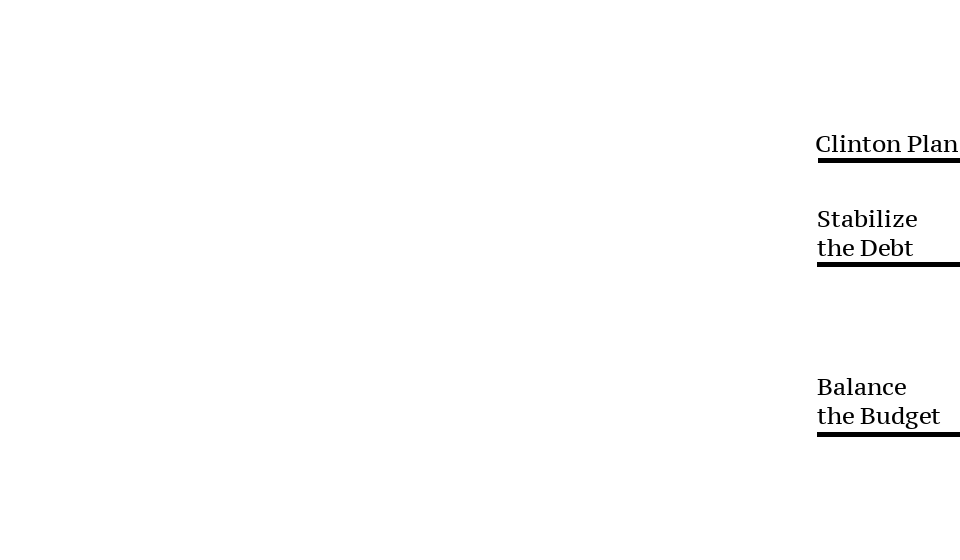
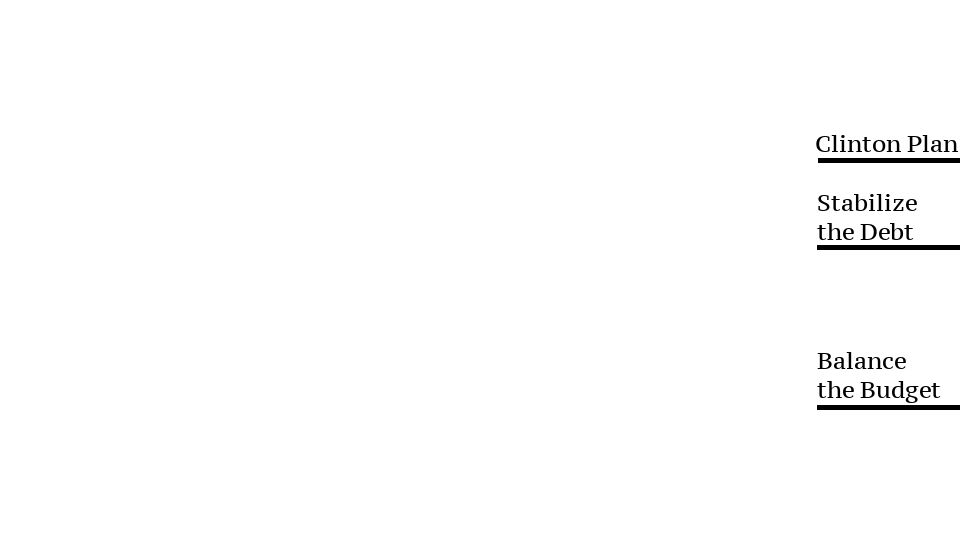
updated debt targets

Changed region(s): [[0.8438, 0.6375, 1.0, 0.7893], [0.8438, 0.3339, 1.0, 0.4857]]

diff --git a/dev/debtcalc.js b/dev/debtcalc.js
@@ -22,9 +22,9 @@ var g_target_value = 0;
 var g_spend_factor = 0;
 var g_tax_quadfact = 0;
 var g_tax_linfact  = 0;
-var g_stable_target = 0.75;
+var g_stable_target = 0.77;
 var g_custom_target = g_custom_default;
-var g_balance_target = 0.57;
+var g_balance_target = 0.60;
 
 
 /* chart loaded flag */

diff --git a/dev/trumpdata.js b/dev/trumpdata.js
@@ -50,7 +50,7 @@ var g_tax_default      =    0 * g_scale_factor;
 /* fixed target bounds */
 var g_custom_min     = 0.50;
 var g_custom_max     = 1.05;
-var g_custom_default = 0.66;
+var g_custom_default = 0.68;
 
 /* for results display */
 var g_line_color = '#bb3224';

diff --git a/dev/clintondata.js b/dev/clintondata.js
@@ -53,7 +53,7 @@ var g_tax_default      =    0 * g_scale_factor;
 /* fixed target bounds */
 var g_custom_min     = 0.50;
 var g_custom_max     = 0.86;
-var g_custom_default = 0.66;
+var g_custom_default = 0.68;
 
 /* chart styling */
 var g_line_color = '#41479d';
